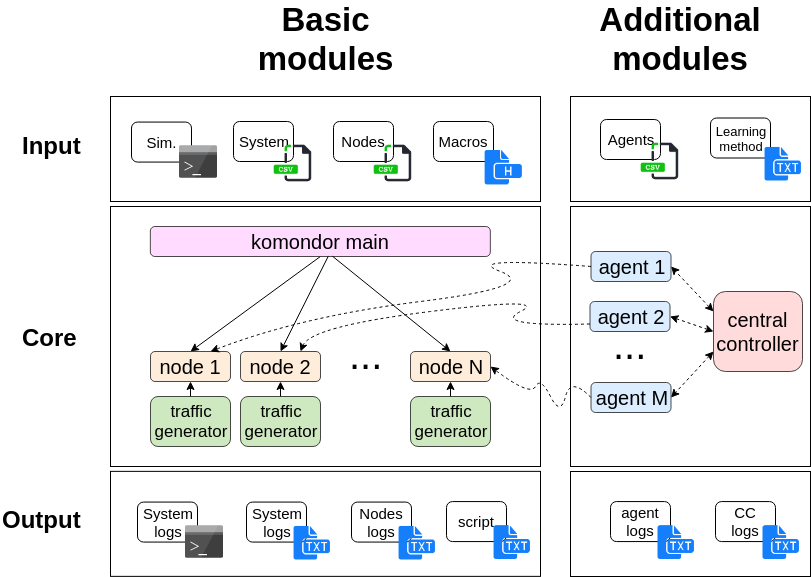
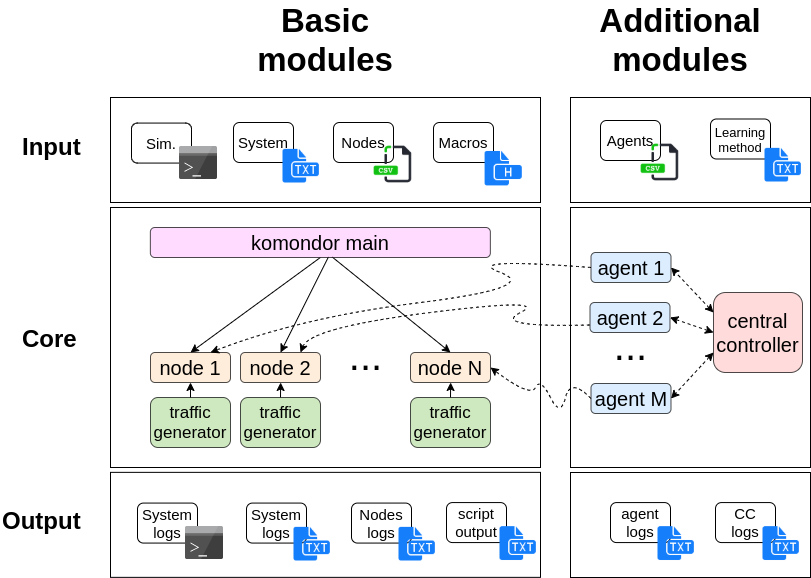
Update "Readme" and add "Readme_agents"
The Readme files have been updated to be aligned with the latest version of the simulator.

diff --git a/README_agents.md b/README_agents.md
@@ -1,0 +1,82 @@
+<p align="center"> 
+<img src="https://github.com/wn-upf/Komondor/blob/master/Documentation/Other/Images and resources/komondor_logo.png">
+</p>
+
+# Intelligent Agents in Komondor
+
+## Table of Contents
+- [Authors](#authors)
+- [Introduction](#introduction)
+- [Overview](#overview)
+- [Usage](#usage)
+- [Validation](#validation)
+- [Contribute](#contribute)
+- [Acknowledgements](#acknowledgements)
+
+## Authors
+* [Sergio Barrachina-Muñoz](https://github.com/sergiobarra)
+* [Francesc Wilhelmi](https://github.com/fwilhelmi)
+
+Both authors have the same contribution in this project.
+
+## Introduction
+
+Komondor includes integrated Machine Learning (ML) operation, which is implemented based on the [ITU-T Architecture for Future Networks](https://www.itu.int/en/ITU-T/focusgroups/ml5g/Documents/ML5G-delievrables.pdf). In particular, several decentralized and centralized ML mechanisms have been provided to fulfill use cases such as Decentralized Learning-based Spatial Reuse (SR) or Smart Dynamic Channel Bonding (DCB).
+
+For more details on the ML-aware architecture, please refer to Wilhelmi, Francesc, et al. "A Flexible Machine Learning-Aware Architecturefor Future WLANs." [arXiv preprint arXiv:1910.03510](https://arxiv.org/pdf/1910.03510.pdf) (2019).
+	
+## Overview
+
+The modules related to agents operation are as follows:
+
+* ```central_controller.h```: entity that is connected to agents that indicate support for centralized operation. Allows centralizing procedures such as data gathering or ML output generation. 
+* ```agent.h```: entity that is connected to Basic Service Sets (BSSs) through the Access Point (AP). The agents collects data from BSS and can provide new configurations to them, based on certain optimization mechanism.
+* ```learning_modules```: here we find the implementation of ML methods that receive feedback about the networks performance in simulation time. 
+* ```agent_methods.h``` in ```methods.h``` : auxiliary methods used by agents.
+
+An overview of the agents operation is next shown:
+<p align="center"> 
+<img src="https://github.com/wn-upf/Komondor/blob/master/Documentation/Other/Images and resources/agents_overview.png">
+</p>
+
+## Usage
+
+Detailed installation and execution instructions can be found in the [Komondor User's Guide](https://github.com/wn-upf/Komondor/blob/master/Documentation/User%20guide/LaTeX%20files/komondor_user_guide.pdf).
+
+To run Komondor with intelligent agents, additional information should be provided to the simulator. In particular, you should run Komondor simulator by using the following command:
+
+```
+$ ./komondor_main INPUT_FILE_NODES INPUT_FILE_AGENTS OUTPUT_FILE_LOGS FLAG_SAVE_NODE_LOGS FLAG_SAVE_AGENT_LOGS FLAG_PRINT_NODE_LOGS FLAG_PRINT_AGENT_LOGS SIM_TIME SEED
+```
+
+The inputs are further described next:
+* ```INPUT_FILE_NODES```: file containing nodes information (e.g., position, channels allowed, etc.).The file must be a .csv with semicolons as separators.
+* ```INPUT_FILE_AGENTS```: file containing agents information (e.g., ID of the BSS to which the agent is associated, ML mechanism, inter-request interval, etc.).The file must be a .csv with semicolons as separators.
+* ```OUTPUT_FILE_LOGS```: path to the output file to which write results at the end of the execution (if the file does not exist, the system will create it).
+* ```FLAG_SAVE_SYSTEM_LOGS```: flag to indicate whether to save the system logs into a file (1) or not (0).
+* ```FLAG_SAVE_NODE_LOGS```: flag to indicate whether to save the nodes logs into separate files (1) or not (0). If this flag is activated, one file per node will be created.
+* ```FLAG_SAVE_AGENT_LOGS```: flag to indicate whether to save the agents logs into separate files (1) or not (0). If this flag is activated, one file per node will be created.
+* ```FLAG_PRINT_SYSTEM_LOGS```: flag to indicate whether to print the system logs (1) or not (0).
+* ```FLAG_PRINT_NODE_LOGS```: flag to indicate whether to print the nodes logs (1) or not (0). 
+* ```FLAG_PRINT_AGENT_LOGS```: flag to indicate whether to print the agents logs (1) or not (0). 
+* ```SIM_TIME```: simulation time
+* ```SEED```: random seed the user wishes to use
+
+IMPORTANT NOTE (!): Setting ```FLAG_SAVE_SYSTEM_LOGS```, ```FLAG_SAVE_NODE_LOGS```, and ```FLAG_SAVE_AGENT_LOGS``` to TRUE (1) entails a larger execution time. 
+
+### Agents Input Files
+
+The agents operation is ruled by the agents input file. The current parameters are as follows:
+1) BSS code: a code that must match with BSS codes provided in node input files. "NULL" indicates that the agent acts as a central controller.
+2) Centralized flag: flag that agents use to indicate their support to the centralized system.
+3) Time between requests: an agent is supposed to request data to the AP every inputted period. For the central controller, the time between requests is meant for requests to agents.
+4) Allowed actions as lists: for each type of modifiable parameter, the user must introduce a list of possible values separated by a comma (e.g., CCA = {-70, -75, -80, -82}). Currently, there is support for lists of channel, CCA, transmission power, and DCB policy.
+5) Reward: type of reward to be used by the learning mechanism (e.g., REWARD_TYPE_PACKETS_SUCCESSFUL = 0, REWARD_TYPE_AVERAGE_THROUGHPUT = 1)
+6) Learning mechanism: learning framework used by the agent/CC (e.g., MULTI_ARMED_BANDITS = 1)
+7) Selected strategy: extra parameter to differentiate between sub-types of learning approaches. For instance, in the bandits framework, we have different action-selection strategies (e.g., STRATEGY_EGREEDY = 1).
+
+See an example of agents input file [here](https://github.com/wn-upf/Komondor/blob/master/Code/input/input_example/agents.csv).
+
+Regarding the output ("output" folder), some logs and statistics are created at the end of the execution.
+
+[GO BACK TO MAIN PAGE](https://github.com/wn-upf/Komondor)

diff --git a/README.md b/README.md
@@ -72,11 +72,10 @@ $ ./build_local
 STEP 2: Run Komondor simulator for the given input information (basic simulation)
 
 ```
-$ ./komondor_main INPUT_FILE_SYSTEM_CONFIGURATION INPUT_FILE_NODES OUTPUT_FILE_LOGS FLAG_SAVE_SYSTEM_LOGS FLAG_SAVE_NODE_LOGS FLAG_PRINT_SYSTEM_LOGS FLAG_PRINT_NODE_LOGS SIM_TIME SEED
+$ ./komondor_main INPUT_FILE_NODES OUTPUT_FILE_LOGS FLAG_SAVE_SYSTEM_LOGS FLAG_SAVE_NODE_LOGS FLAG_PRINT_SYSTEM_LOGS FLAG_PRINT_NODE_LOGS SIM_TIME SEED
 ```
 
 The inputs are further described next:
-* ```INPUT_FILE_SYSTEM_CONFIGURATION```: file containing system information (e.g., number of channels available, traffic model, etc.). The file must be a .csv with semicolons as separators.
 * ```INPUT_FILE_NODES```: file containing nodes information (e.g., position, channels allowed, etc.).The file must be a .csv with semicolons as separators.
 * ```OUTPUT_FILE_LOGS```: path to the output file to which write results at the end of the execution (if the file does not exist, the system will create it).
 * ```FLAG_SAVE_SYSTEM_LOGS```: flag to indicate whether to save the system logs into a file (1) or not (0).
@@ -93,24 +92,19 @@ STEP 2-1: Run Komondor simulator with intelligent agents
 Alternatively, and in order to indicate the usage of agents, the console input must add the following extra information:
 
 ```
-$ ./komondor_main INPUT_FILE_SYSTEM_CONFIGURATION INPUT_FILE_NODES INPUT_FILE_AGENTS OUTPUT_FILE_LOGS FLAG_SAVE_SYSTEM_LOGS FLAG_SAVE_NODE_LOGS FLAG_SAVE_AGENT_LOGS FLAG_PRINT_SYSTEM_LOGS FLAG_PRINT_NODE_LOGS FLAG_PRINT_AGENT_LOGS SIM_TIME SEED
+$ ./komondor_main INPUT_FILE_NODES INPUT_FILE_AGENTS OUTPUT_FILE_LOGS FLAG_SAVE_SYSTEM_LOGS FLAG_SAVE_NODE_LOGS FLAG_SAVE_AGENT_LOGS FLAG_PRINT_SYSTEM_LOGS FLAG_PRINT_NODE_LOGS FLAG_PRINT_AGENT_LOGS SIM_TIME SEED
 ```
 
-The new inputs are described next:
-* ```INPUT_FILE_AGENTS```: file containing agents information (e.g., wlan code, allowed actions, etc.).The file must be a .csv with semicolons as separators.
-* ```FLAG_SAVE_AGENT_LOGS``` :flag to indicate whether to save the agent logs into separate files (1) or not (0). If this flag is activated, one file per agent will be created.
-* ```FLAG_PRINT_AGENT_LOGS```: flag to indicate whether to print the agent logs (1) or not (0). 
+The agents operation has been summarized at [README_agents](https://github.com/wn-upf/Komondor/blob/master/README_agents.md).
 
 ### Input files
 
-There are two types of input files that are required for basic Komondor's execution. These files are located at the "input" folder, and which allow to configure system and nodes parameters, respectively:
-* ```input_system_conf.csv```: define parameters such as the number of total available channels, the CW...
-* ```input_nodes_conf.csv```: define parameters such as the node id, the node location, etc.
+There is an input file that is required for basic Komondor's execution. Input files are located at the "input" folder:
 
-Additionally, the agents operation is ruled by the agents input file. The most important inputs refer to:
-1) WLAN code: a code that must match with WLAN codes provided in node input files
-2) Time between requests: an agent is supposed to request data to the AP every inputted period
-3) Allowed actions as lists: for each type of modifiable parameter, the user must introduce a list of possible values (e.g. CCA = {-70, -75, -80, -82})
+* ```input_nodes_conf.csv```: define parameters such as the node id, the node location, etc.
+* ```agents.csv```: define parameters used by the agents operation. Refer to [README_agents](https://github.com/wn-upf/Komondor/blob/master/README_agents.md).
+
+Apart from the input nodes file, different models are loaded through the "config_models" file (located [here](https://github.com/wn-upf/Komondor/blob/master/Code/config_models)).
 
 Regarding the output ("output" folder), some logs and statistics are created at the end of the execution.
 
@@ -139,7 +133,7 @@ The output of the regression test will be displayed by console. In case of succe
 <img src="https://github.com/wn-upf/Komondor/blob/master/Documentation/Other/Images and resources/example_execution_regression_test.png">
 </p>
 
-Before executing the regression test, it is important to ensure that "simulation_index" in komondor_main.cc is set to 10.
+Before executing the regression test, it is important to ensure that "simulation_ix_output_script" in config_models is set to 10 and "path_loss_model" to 4.
 
 ## Academic/Education projects
 One of the main purposes of Komondor is to serve as an academic/educational tool. In what follows, we list the projects in which Komondor has been used as a simulation tool:
